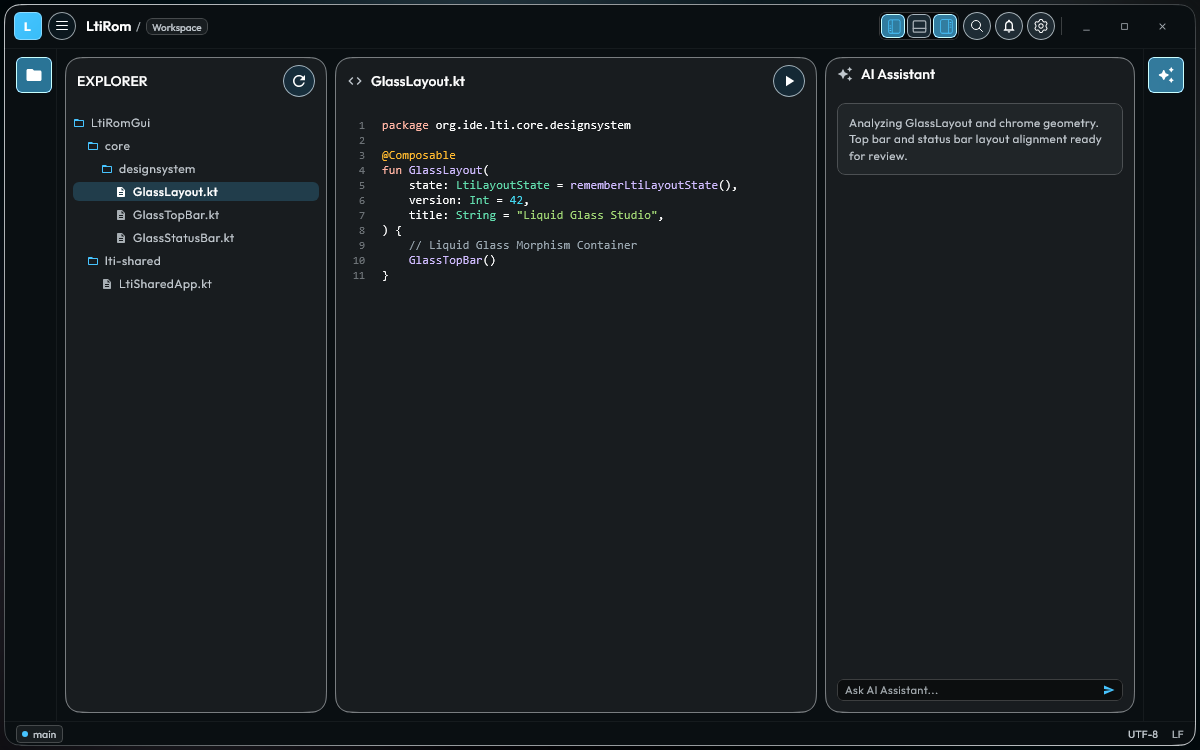
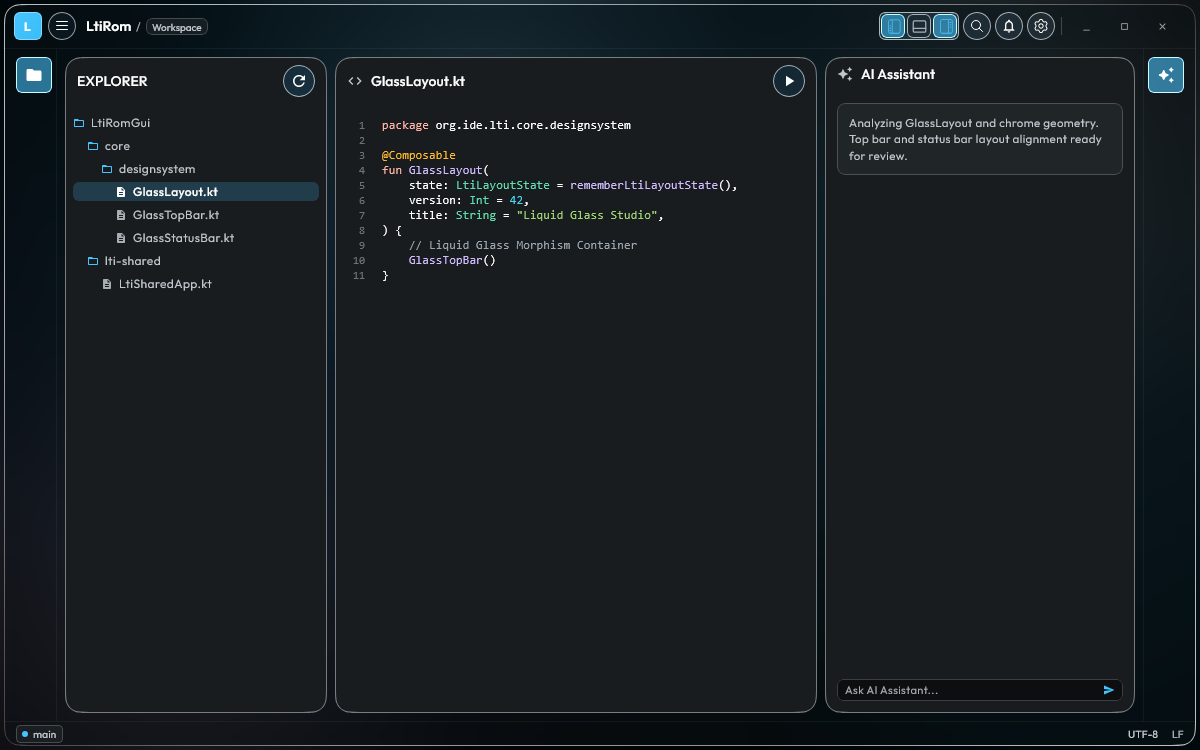
Make chrome frame and light-mode glass surfaces genuinely translucent
The outer chrome GlassSurface (top bar, side rails, status bar) and the
light-theme glassSurface token were fully opaque (alpha 1.0 / 0.75),
painting a solid fill directly over the blurred backdrop layer and
crushing all visible glass on the app's chrome and light-theme
cards/dialogs/panels. Gave chromeSurface a real alpha (0.50, matching
the existing dark glassSurface token) in both theme branches, and
lowered light-mode glassSurface from 0.75 to 0.50 to match. Also fixed
GlassTopBar's segmented panel-layout toggle, which rendered as flat
fake glass (plain .background(), no backdrop/blur/lens at all) despite
its own doc comment calling it "Liquid Glass" - now routed through
Modifier.glassEffect(). canvasSurface (editor/terminal/explorer content
background) is untouched and stays fully opaque by design, confirmed
via direct pixel sampling.

Claude-Session: https://claude.ai/code/session_01SXKcmDfqwhWjcRFz8mbE7W

Changed region(s): [[0.3083, 0.0, 0.4933, 0.092], [0.74, 0.0, 0.8017, 0.0613]]

diff --git a/core/designsystem/src/commonMain/kotlin/org/ide/lti/core/designsystem/component/GlassTopBar.kt b/core/designsystem/src/commonMain/kotlin/org/ide/lti/core/designsystem/component/GlassTopBar.kt
@@ -284,6 +284,7 @@ private fun GlassTopBarRightSection(
             onClickLeftPanelIcon = onClickLeftPanelIcon,
             onClickMiddleDownPanelIcon = onClickMiddleDownPanelIcon,
             onClickRightPanelIcon = onClickRightPanelIcon,
+            backdrop = backdrop,
         )
 
         GlassIconButton(
@@ -350,15 +351,27 @@ private fun SegmentedPanelLayoutToggle(
     onClickMiddleDownPanelIcon: () -> Unit,
     onClickRightPanelIcon: () -> Unit,
     modifier: Modifier = Modifier,
+    backdrop: Backdrop? = null,
 ) {
     val glassColors = GlassTheme.colors
+    val toggleShape = ContinuousRoundedRectangle(CornerRadius.Small)
 
     Row(
         modifier = modifier
             .height(ComponentSize.SegmentedToggleHeight)
-            .clip(RoundedCornerShape(CornerRadius.Small))
-            .background(glassColors.glassSurface)
-            .border(StrokeWidth.Hairline, glassColors.glassBorder, RoundedCornerShape(CornerRadius.Small))
+            .glassEffect(
+                backdrop = backdrop,
+                shape = toggleShape,
+                effects = {
+                    vibrancy()
+                    blur(BackdropBlur.Subtle.toPx())
+                    lens(LensRefraction.Toggle.height.toPx(), LensRefraction.Toggle.amount.toPx())
+                },
+            )
+            .glassBorder(
+                width = StrokeWidth.Hairline,
+                shape = toggleShape,
+            )
             .padding(Spacing.ExtraExtraSmall),
         horizontalArrangement = Arrangement.spacedBy(Spacing.ExtraExtraSmall),
         verticalAlignment = Alignment.CenterVertically,

diff --git a/core/designsystem/src/commonMain/kotlin/org/ide/lti/core/designsystem/theme/Color.kt b/core/designsystem/src/commonMain/kotlin/org/ide/lti/core/designsystem/theme/Color.kt
@@ -211,7 +211,7 @@ fun dynamicGlassColorScheme(
         GlassColorScheme(
             glassSurface = colorScheme.surface.copy(alpha = AlphaTokens.Elevated),
             glassSurfaceElevated = colorScheme.surfaceContainerHigh.copy(alpha = AlphaTokens.Prominent),
-            chromeSurface = colorScheme.surfaceContainerLowest,
+            chromeSurface = colorScheme.surfaceContainerLowest.copy(alpha = AlphaTokens.Elevated),
             canvasSurface = colorScheme.surfaceContainerLow,
             glassTint = colorScheme.primary.copy(alpha = AlphaTokens.Glow),
             glassTintSecondary = colorScheme.secondary.copy(alpha = AlphaTokens.Glow),
@@ -229,9 +229,9 @@ fun dynamicGlassColorScheme(
         )
     } else {
         GlassColorScheme(
-            glassSurface = colorScheme.surface.copy(alpha = AlphaTokens.IconTint),
+            glassSurface = colorScheme.surface.copy(alpha = AlphaTokens.Elevated),
             glassSurfaceElevated = colorScheme.surfaceContainerHighest.copy(alpha = AlphaTokens.PrimaryButtonTint),
-            chromeSurface = colorScheme.surfaceContainer,
+            chromeSurface = colorScheme.surfaceContainer.copy(alpha = AlphaTokens.Elevated),
             canvasSurface = colorScheme.surfaceContainerLowest,
             glassTint = colorScheme.primary.copy(alpha = AlphaTokens.Subtle),
             glassTintSecondary = colorScheme.secondary.copy(alpha = AlphaTokens.Subtle),
